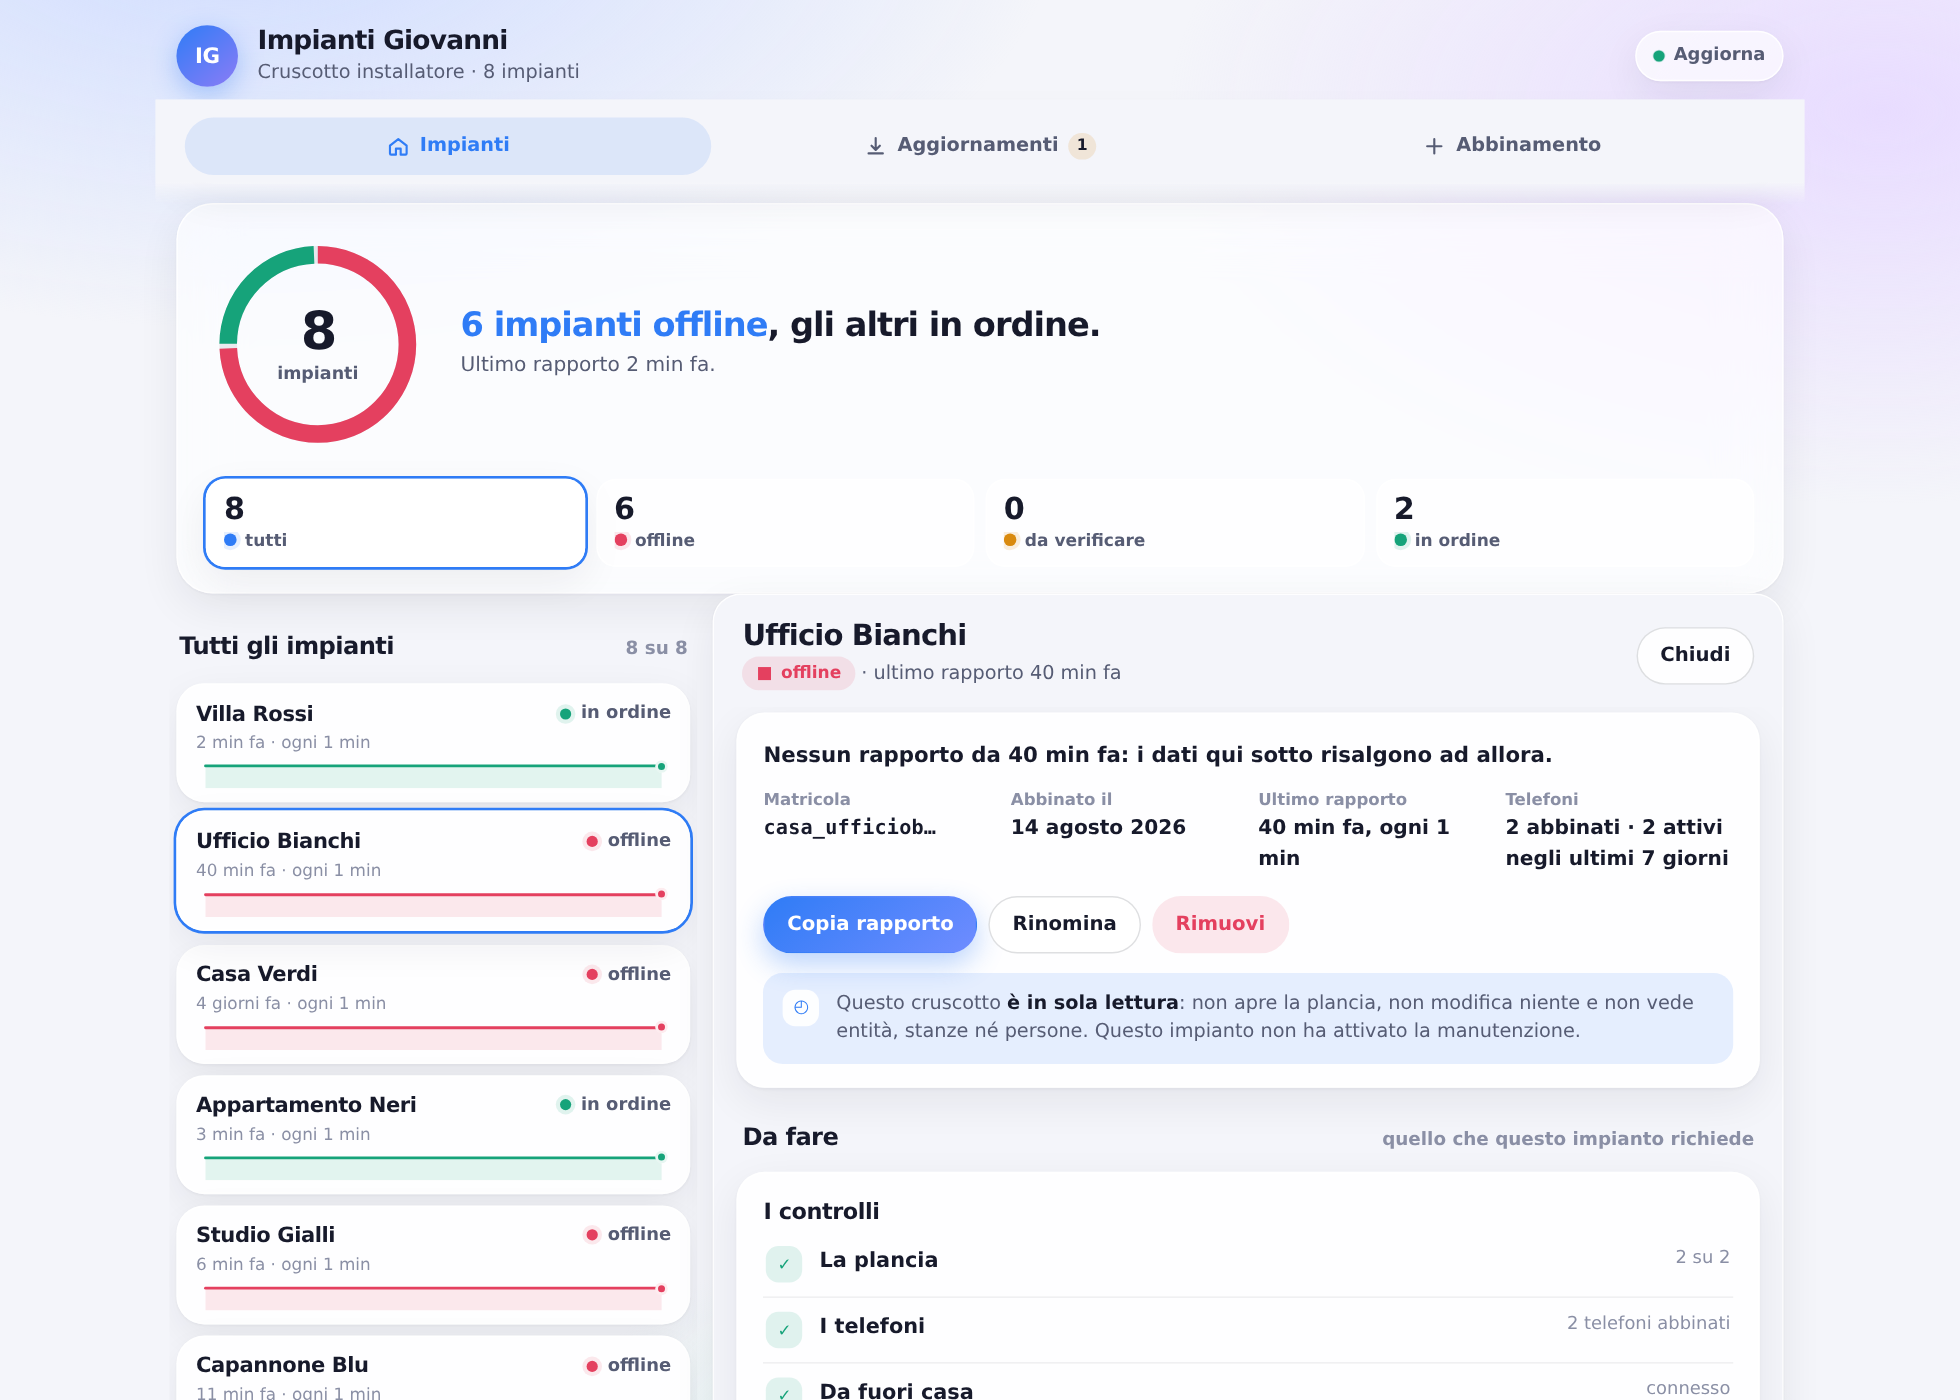
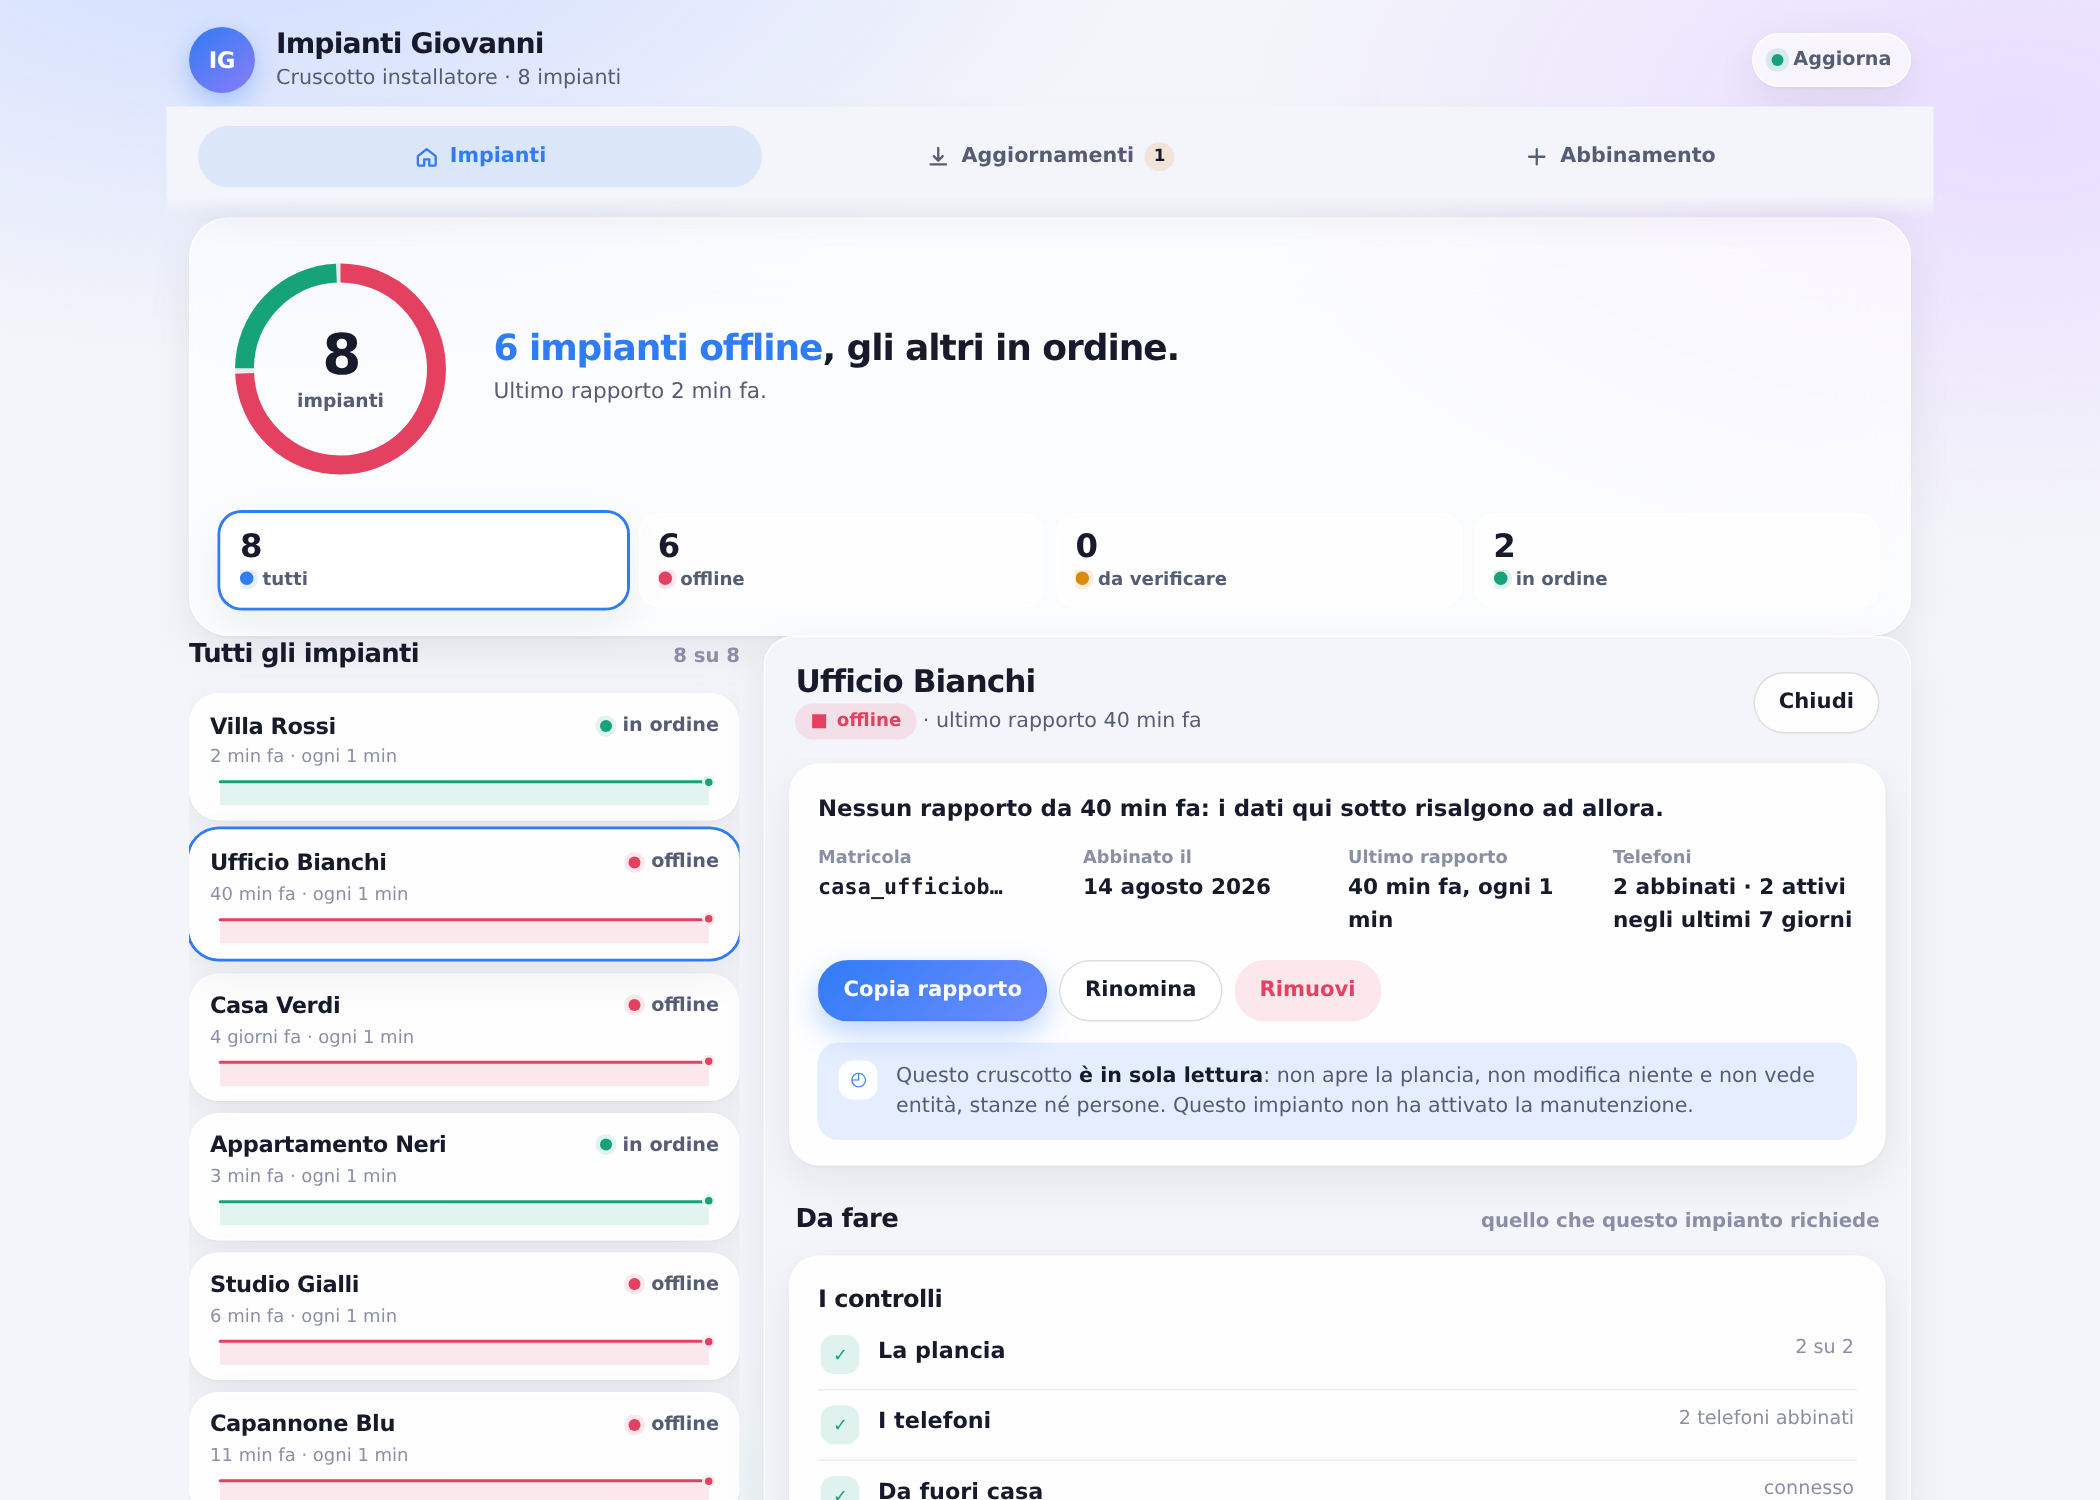
I margini della colonna tornano in squadra con la pagina
«Verifica i margini, non sono allineati.» Misurati invece che guardati:
il riquadro in cima cominciava a 126, l'elenco a 121. Cinque pixel, e si
vedevano.

Erano miei, e di ieri. Alla colonna che scorre avevo dato un respiro di
cinque pixel per lato perché l'ombra e il sollevamento di una riga non si
tagliassero sul bordo, e l'avevo ripreso col margine negativo: il
contenuto tornava a posto, ma la colonna no. Adesso il respiro sta solo
sopra e sotto, dove serve davvero.

E le due colonne non cominciavano alla stessa altezza: la prima riga
dell'elenco stava sessanta pixel più in basso del bordo della scheda
accanto, perché il titolo della raccolta porta uno stacco che in mezzo
alla pagina è giusto e in cima a una colonna no. Tolto lì — e tolto al
titolo, non al primo figlio: nel cruscotto il primo figlio è il blocco
«Da verificare ora», che lì è nascosto, e il margine glielo toglieva a
lui mentre il titolo vero restava dov'era. Sistemato anche il rientro di
due pixel che lo portava fuori squadra con le righe sotto.

Adesso, in tutt'e due le pagine: tutto a sinistra comincia a 126, la
colonna e la scheda cominciano alla stessa altezza, e fra le due colonne
ci sono i sedici pixel che ci devono essere.

La prova non lascia rimettere il respiro di lato: vuole che padding e
margin della colonna abbiano la parte orizzontale a zero, e che il titolo
in cima non porti lo stacco. Rimessi apposta, diventa rossa.

Claude-Session: https://claude.ai/code/session_01GGsjFKASY1U5KG4TDkPD3s

diff --git a/quadro/test/la-scheda-si-apre-accanto.test.js b/quadro/test/la-scheda-si-apre-accanto.test.js
@@ -91,6 +91,30 @@ for (const [chi, pagina] of Object.entries(PAGINE)) {
     assert.equal(scheda, elenco, "la scheda non sta sulla riga dell'elenco");
   });
 
+  test(`${chi}: l'elenco sta in squadra con quello che ha sopra`, () => {
+    /* Il difetto per nome, ed era mio: alla colonna che scorre avevo dato un
+     * respiro di cinque pixel per lato, perche' l'ombra e il sollevamento di
+     * una riga non si tagliassero sul bordo. Ripreso col margine negativo il
+     * contenuto tornava a posto, ma la colonna cominciava cinque pixel prima
+     * di tutto il resto — il riquadro in cima a 126, l'elenco a 121 — e si
+     * vedeva. Il respiro adesso sta solo sopra e sotto, e questa prova e' la
+     * sola cosa che se ne accorge se qualcuno lo rimette di lato. */
+    const foglio = laffiancata(pagina);
+    const colonna = regola(foglio, "#dove > .colonna-elenco");
+    for (const quale of ["padding", "margin"]) {
+      const scritto = new RegExp(`\\n\\s*${quale}: ([^;]+);`).exec(colonna)?.[1];
+      assert.ok(scritto, `alla colonna manca «${quale}»`);
+      const pezzi = scritto.trim().split(/\s+/);
+      assert.equal(pezzi.length, 2, `«${quale}: ${scritto}» non e' «sopra-sotto destra-sinistra»`);
+      assert.equal(pezzi[1], "0", `«${quale}» sposta la colonna di lato: ${scritto}`);
+    }
+
+    /* E il titolo in cima non porta il suo stacco: le due colonne devono
+     * cominciare alla stessa altezza, e con lo stacco la prima riga
+     * dell'elenco restava sessanta pixel piu' in basso della scheda. */
+    assert.match(regola(foglio, "#dove > .colonna-elenco > .voce"), /margin-top: 0;/);
+  });
+
   test(`${chi}: accanto non c'e' piu' il velo`, () => {
     assert.match(regola(laffiancata(pagina), "#dove > .velo"), /display: none;/);
   });

diff --git a/quadro/console/index.html b/quadro/console/index.html
@@ -1445,10 +1445,32 @@
           overflow-y: auto;
           overscroll-behavior: contain;
           scrollbar-width: thin;
-          /* L'ombra e il sollevamento di una mattonella non si tagliano sul
-             bordo del riquadro che scorre. */
-          padding: 3px 5px;
-          margin: -3px -5px;
+          /* Il respiro per il sollevamento e l'ombra sta **solo** sopra e
+             sotto, ed e' ripreso dal margine: di lato spostava la colonna
+             cinque pixel fuori da tutto il resto — il riquadro in cima
+             cominciava a 126, l'elenco a 121, e si vedeva. */
+          padding: 4px 0;
+          margin: -4px 0;
+        }
+
+        /* Le due colonne cominciano alla stessa altezza.
+           Il titolo di una raccolta si stacca da quello che ha sopra, e in
+           mezzo alla pagina e' giusto; in cima a una colonna no — lasciava
+           la prima riga dell'elenco sessanta pixel piu' in basso del bordo
+           della scheda accanto. E il rientro di due pixel lo portava fuori
+           squadro con le righe sotto. */
+        #dove > .colonna-elenco > :first-child,
+        /* Il titolo, e non «il primo figlio»: nel cruscotto il primo figlio
+           e' il blocco «Da verificare ora», che qui e' nascosto — nascosto ma
+           primo, e il margine glielo toglieva a lui mentre il titolo vero
+           restava sessanta pixel piu' in basso. Di titoli in cima alla
+           colonna ce n'e' uno solo, in tutt'e due le pagine. */
+        #dove > .colonna-elenco > .voce {
+          margin-top: 0;
+        }
+
+        #dove > .colonna-elenco .voce {
+          margin-inline: 0;
         }
 
         #dove > .scheda-vuota,

diff --git a/quadro/gestore/index.html b/quadro/gestore/index.html
@@ -2638,10 +2638,32 @@
           overflow-y: auto;
           overscroll-behavior: contain;
           scrollbar-width: thin;
-          /* L'ombra e il sollevamento di una scheda non si tagliano sul
-             bordo del riquadro che scorre. */
-          padding: 3px 5px;
-          margin: -3px -5px;
+          /* Il respiro per il sollevamento e l'ombra sta **solo** sopra e
+             sotto, ed e' ripreso dal margine: di lato spostava la colonna
+             cinque pixel fuori da tutto il resto — il riquadro in cima
+             cominciava a 126, l'elenco a 121, e si vedeva. */
+          padding: 4px 0;
+          margin: -4px 0;
+        }
+
+        /* Le due colonne cominciano alla stessa altezza.
+           Il titolo di una raccolta si stacca da quello che ha sopra, e in
+           mezzo alla pagina e' giusto; in cima a una colonna no — lasciava
+           la prima riga dell'elenco sessanta pixel piu' in basso del bordo
+           della scheda accanto. E il rientro di due pixel lo portava fuori
+           squadro con le righe sotto. */
+        #dove > .colonna-elenco > :first-child,
+        /* Il titolo, e non «il primo figlio»: nel cruscotto il primo figlio
+           e' il blocco «Da verificare ora», che qui e' nascosto — nascosto ma
+           primo, e il margine glielo toglieva a lui mentre il titolo vero
+           restava sessanta pixel piu' in basso. Di titoli in cima alla
+           colonna ce n'e' uno solo, in tutt'e due le pagine. */
+        #dove > .colonna-elenco > .voce {
+          margin-top: 0;
+        }
+
+        #dove > .colonna-elenco .voce {
+          margin-inline: 0;
         }
 
         #dove > .riquadro.larga {
